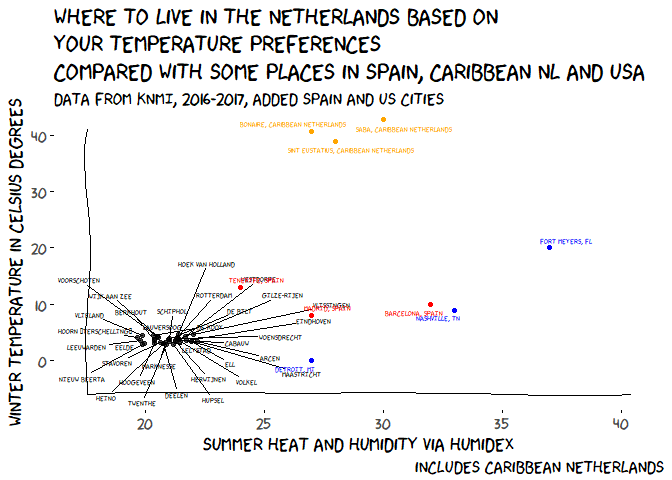
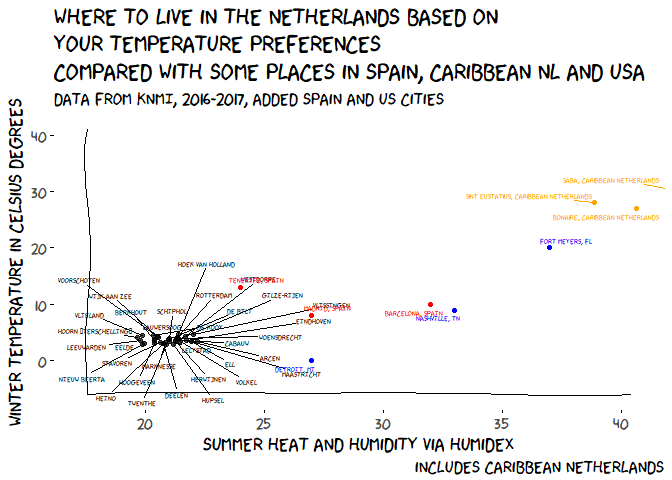
swapped humidex and temp

Changed region(s): [[0.3438, 0.25, 0.6875, 0.3438], [0.6875, 0.375, 1.0, 0.4688]]

diff --git a/README.md b/README.md
@@ -186,9 +186,9 @@ SPAIN <- tribble(
   )
 D_CARI <- tribble(
       ~NAME, ~humidex_avg, ~wintertemp,
-      "Bonaire, Caribbean Netherlands", 27, calcHumx(29,76),
-      "Sint Eustatius, Caribbean Netherlands", 28, calcHumx(28,77),   
-      "Saba, Caribbean Netherlands",30, calcHumx(30,76)
+      "Bonaire, Caribbean Netherlands", calcHumx(29,76), 27,
+      "Sint Eustatius, Caribbean Netherlands", calcHumx(28,77), 28,    
+      "Saba, Caribbean Netherlands",calcHumx(30,76), 30 
   )
 
 set.seed(3456)
